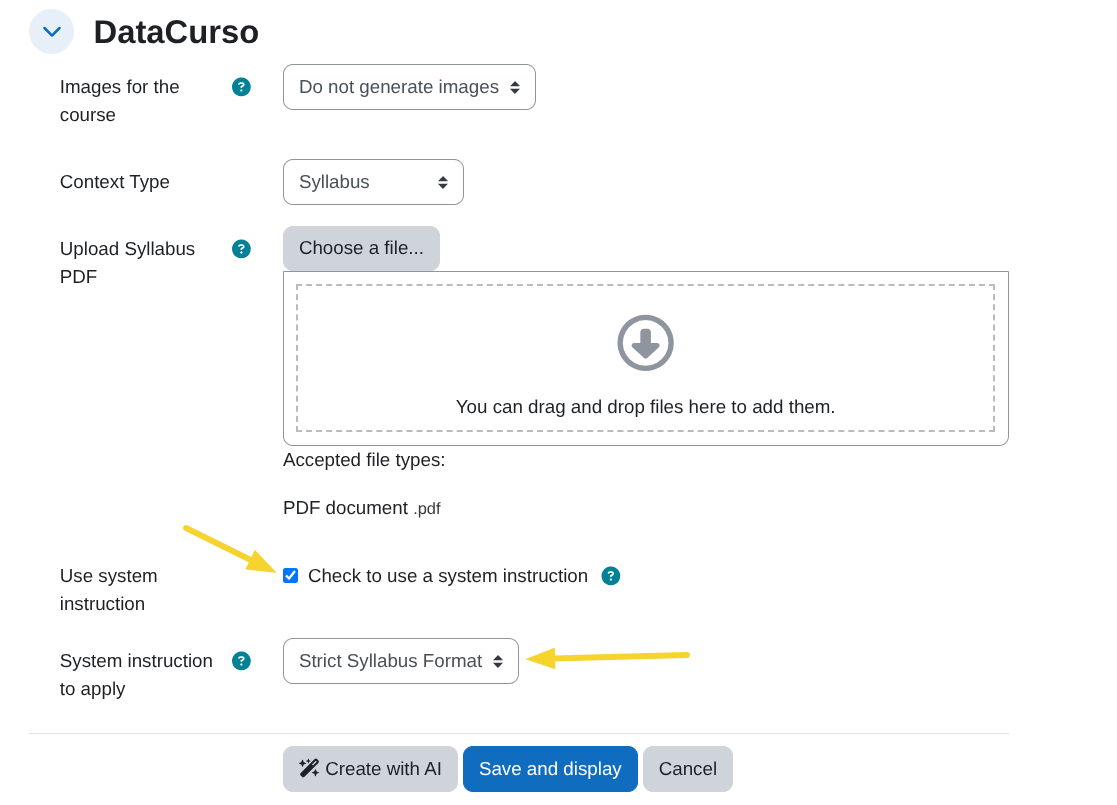
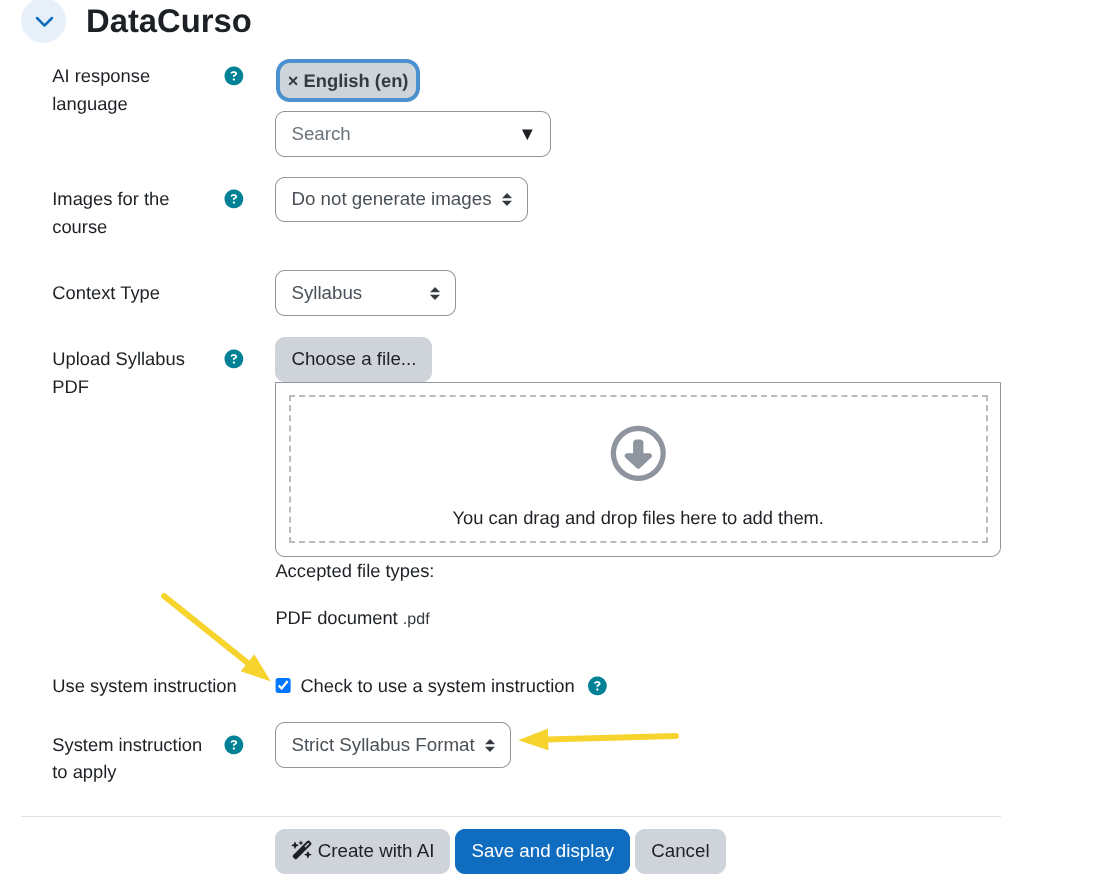
docs: add AI response language selector in course form configuration
Updated the Datacurso section documentation to reflect the new AI response language selector. Renumbered configuration areas from four to five and added description of the language selector as the first configuration option, explaining that it controls the language for AI responses and is saved per course for reuse across all AI interactions.

diff --git a/README.md b/README.md
@@ -116,23 +116,29 @@ Follow these steps to create a new course using the Datacurso AI workflow:
 
 ### Configure the Datacurso section
 
-The `Datacurso` section lets you define the context that the AI will use to understand the course you want to create and whether it should generate images. It is divided into four main configuration areas:
+The `Datacurso` section lets you define the context that the AI will use to understand the course you want to create, the language in which it should respond, and whether it should generate images. It is divided into five main configuration areas:
 
-- **1. Images for the course**
+- **1. AI response language**
+  - Use the **AI response language** selector to choose the language in which the AI will respond and generate the course content.
+  - This value is saved per course and reused across AI interactions (planning, adjusting the plan, and course creation).
+
+  ![AI response language](./_docs/images/local_coursegen_ai_response_language.png)
+
+- **2. Images for the course**
   - Use the **Images for the course** selector to decide whether the AI should generate images for sections, activities and other visual elements of the course.
   - By default this is set to **Do not generate images**.
   - **Important:** Enabling image generation may drastically increase the number of credits consumed in your Datacurso AI Provider license key, because each generated image uses additional credits.
 
   ![Image generation option](./_docs/images/local_coursegen_image_generation_option.png)
 
-- **2. Context type**
+- **3. Context type**
   - Use the **Context Type** selector to choose how you will provide the main context for the course:
     - **Custom prompt**: You describe the course context manually.
     - **Upload Syllabus (PDF)**: You provide an existing syllabus document.
 
     ![Context type](./_docs/images/local_coursegen_context_type.png)
 
-- **3. Context details**
+- **4. Context details**
   - **If you choose Custom prompt**
     - A textarea labeled **Prompt for AI** appears.
     - Enter a clear and detailed prompt that describes how you want the course to be generated (objectives, student profile, content, level, constraints, examples, etc.).
@@ -145,7 +151,7 @@ The `Datacurso` section lets you define the context that the AI will use to unde
     
     ![Upload Syllabus](./_docs/images/local_coursegen_upload_syllabus.png)
 
-- **4. Optional system instructions (for any context type)**
+- **5. Optional system instructions (for any context type)**
   - You can reinforce **either** context type (`Custom prompt` or `Syllabus`) with a reusable system instruction.
   - Tick the checkbox **Check to use a system instruction** to enable this feature.
   - If there are system instructions configured (see [Manage system instructions](#manage-system-instructions)):
